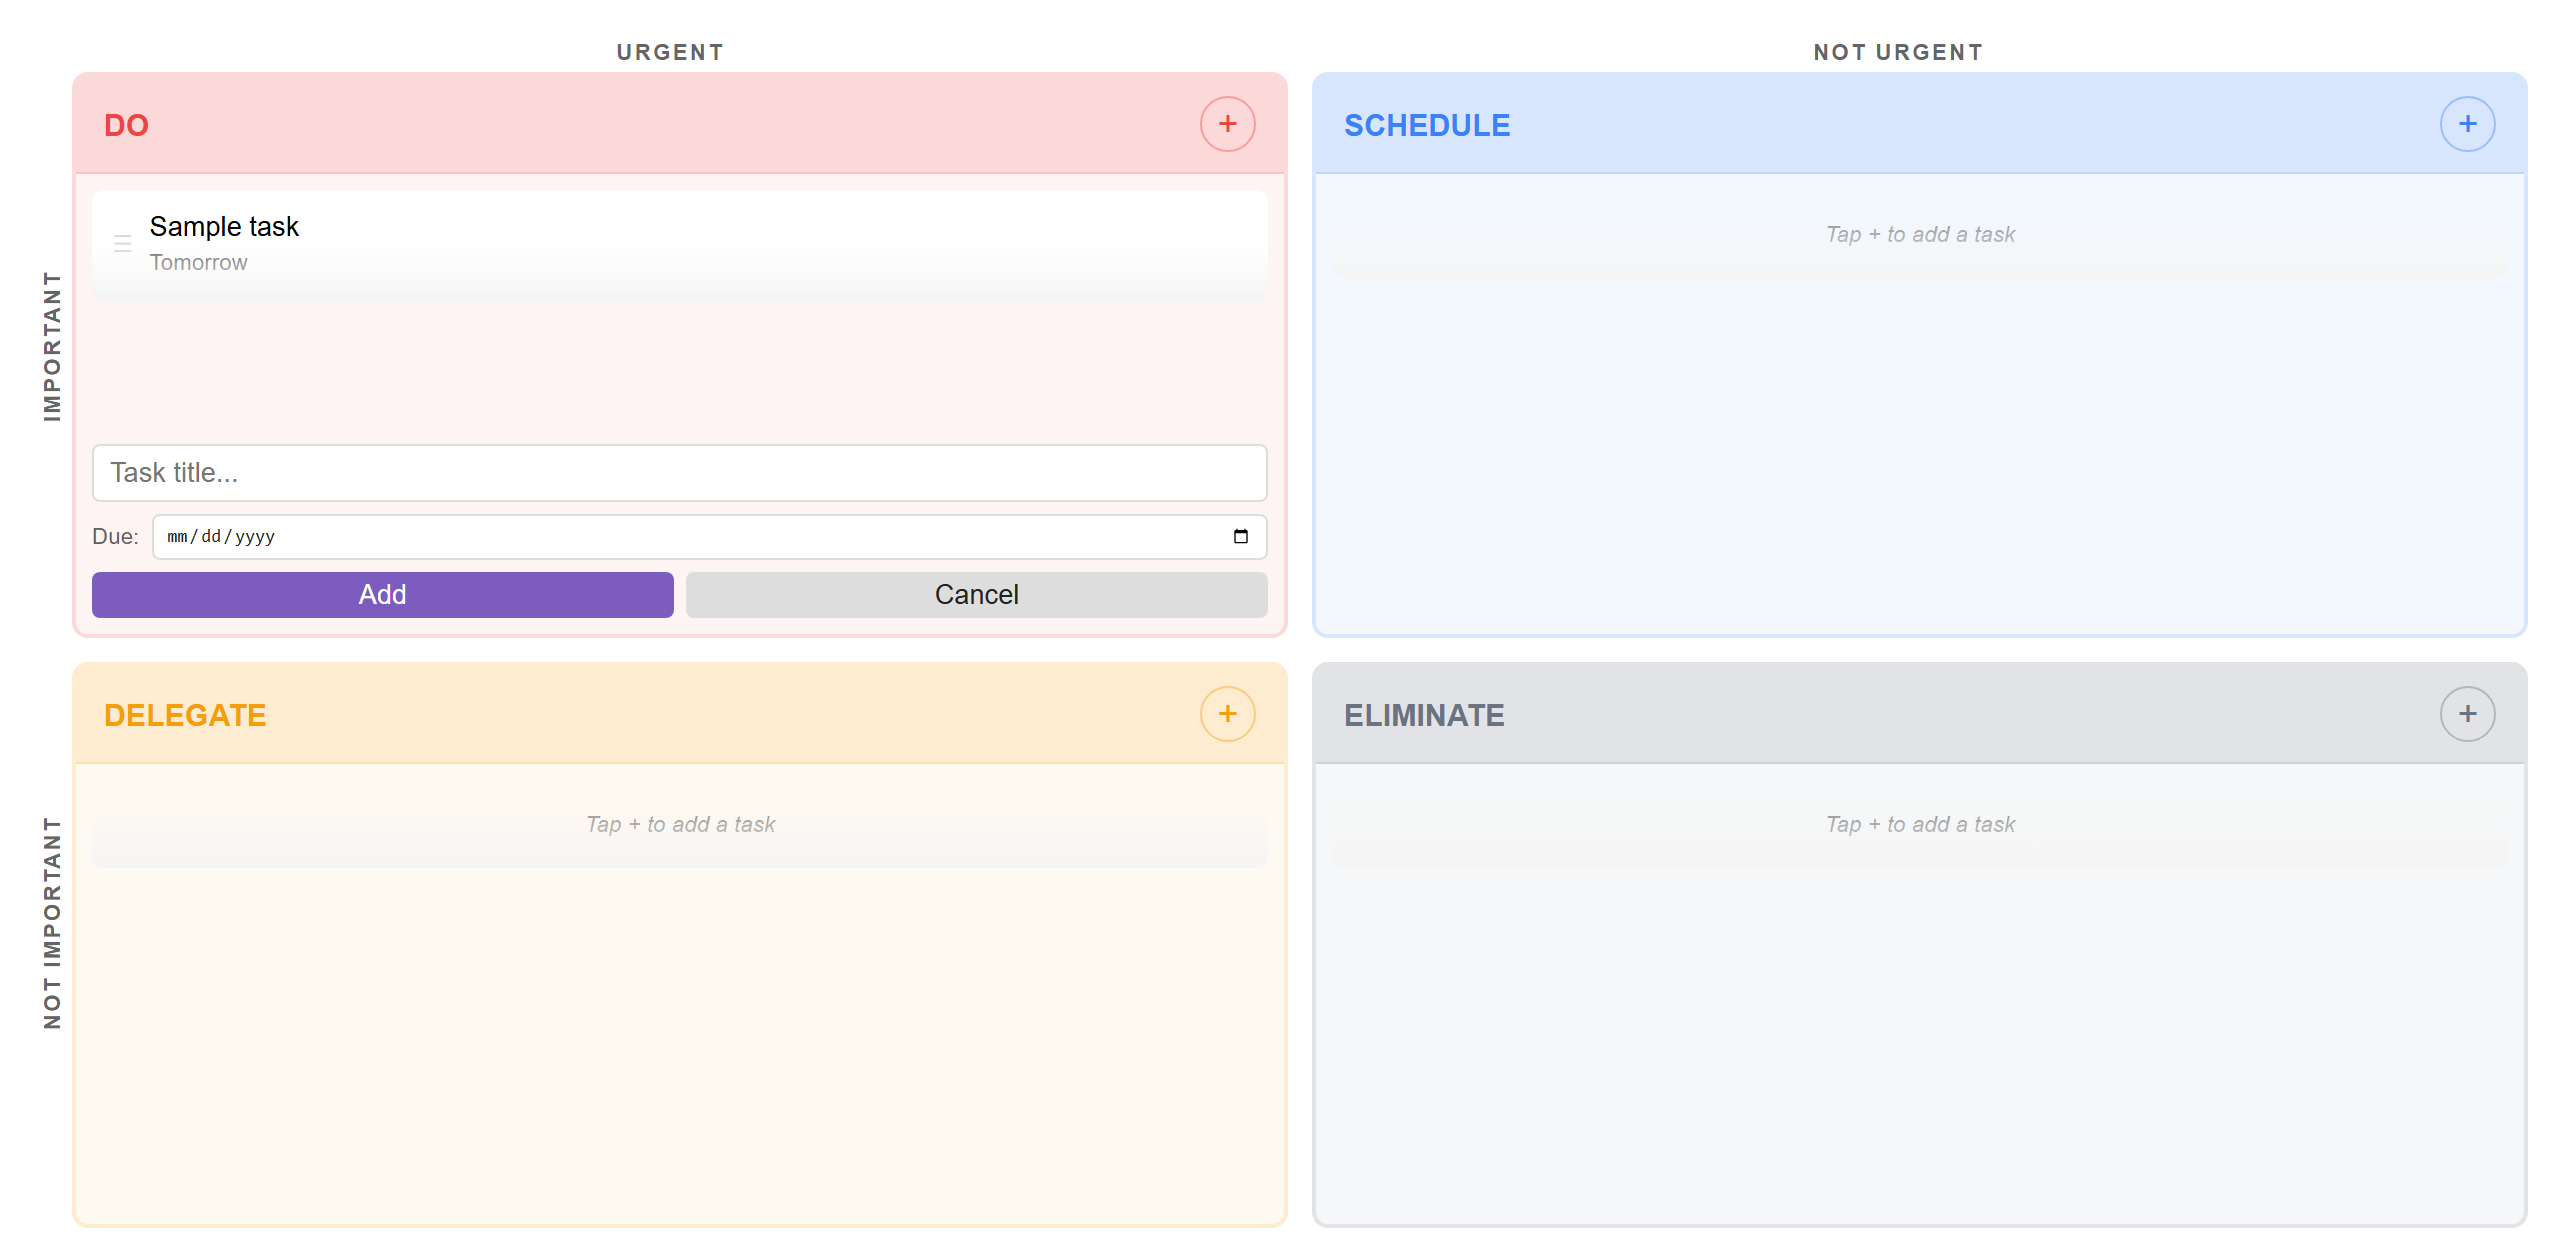
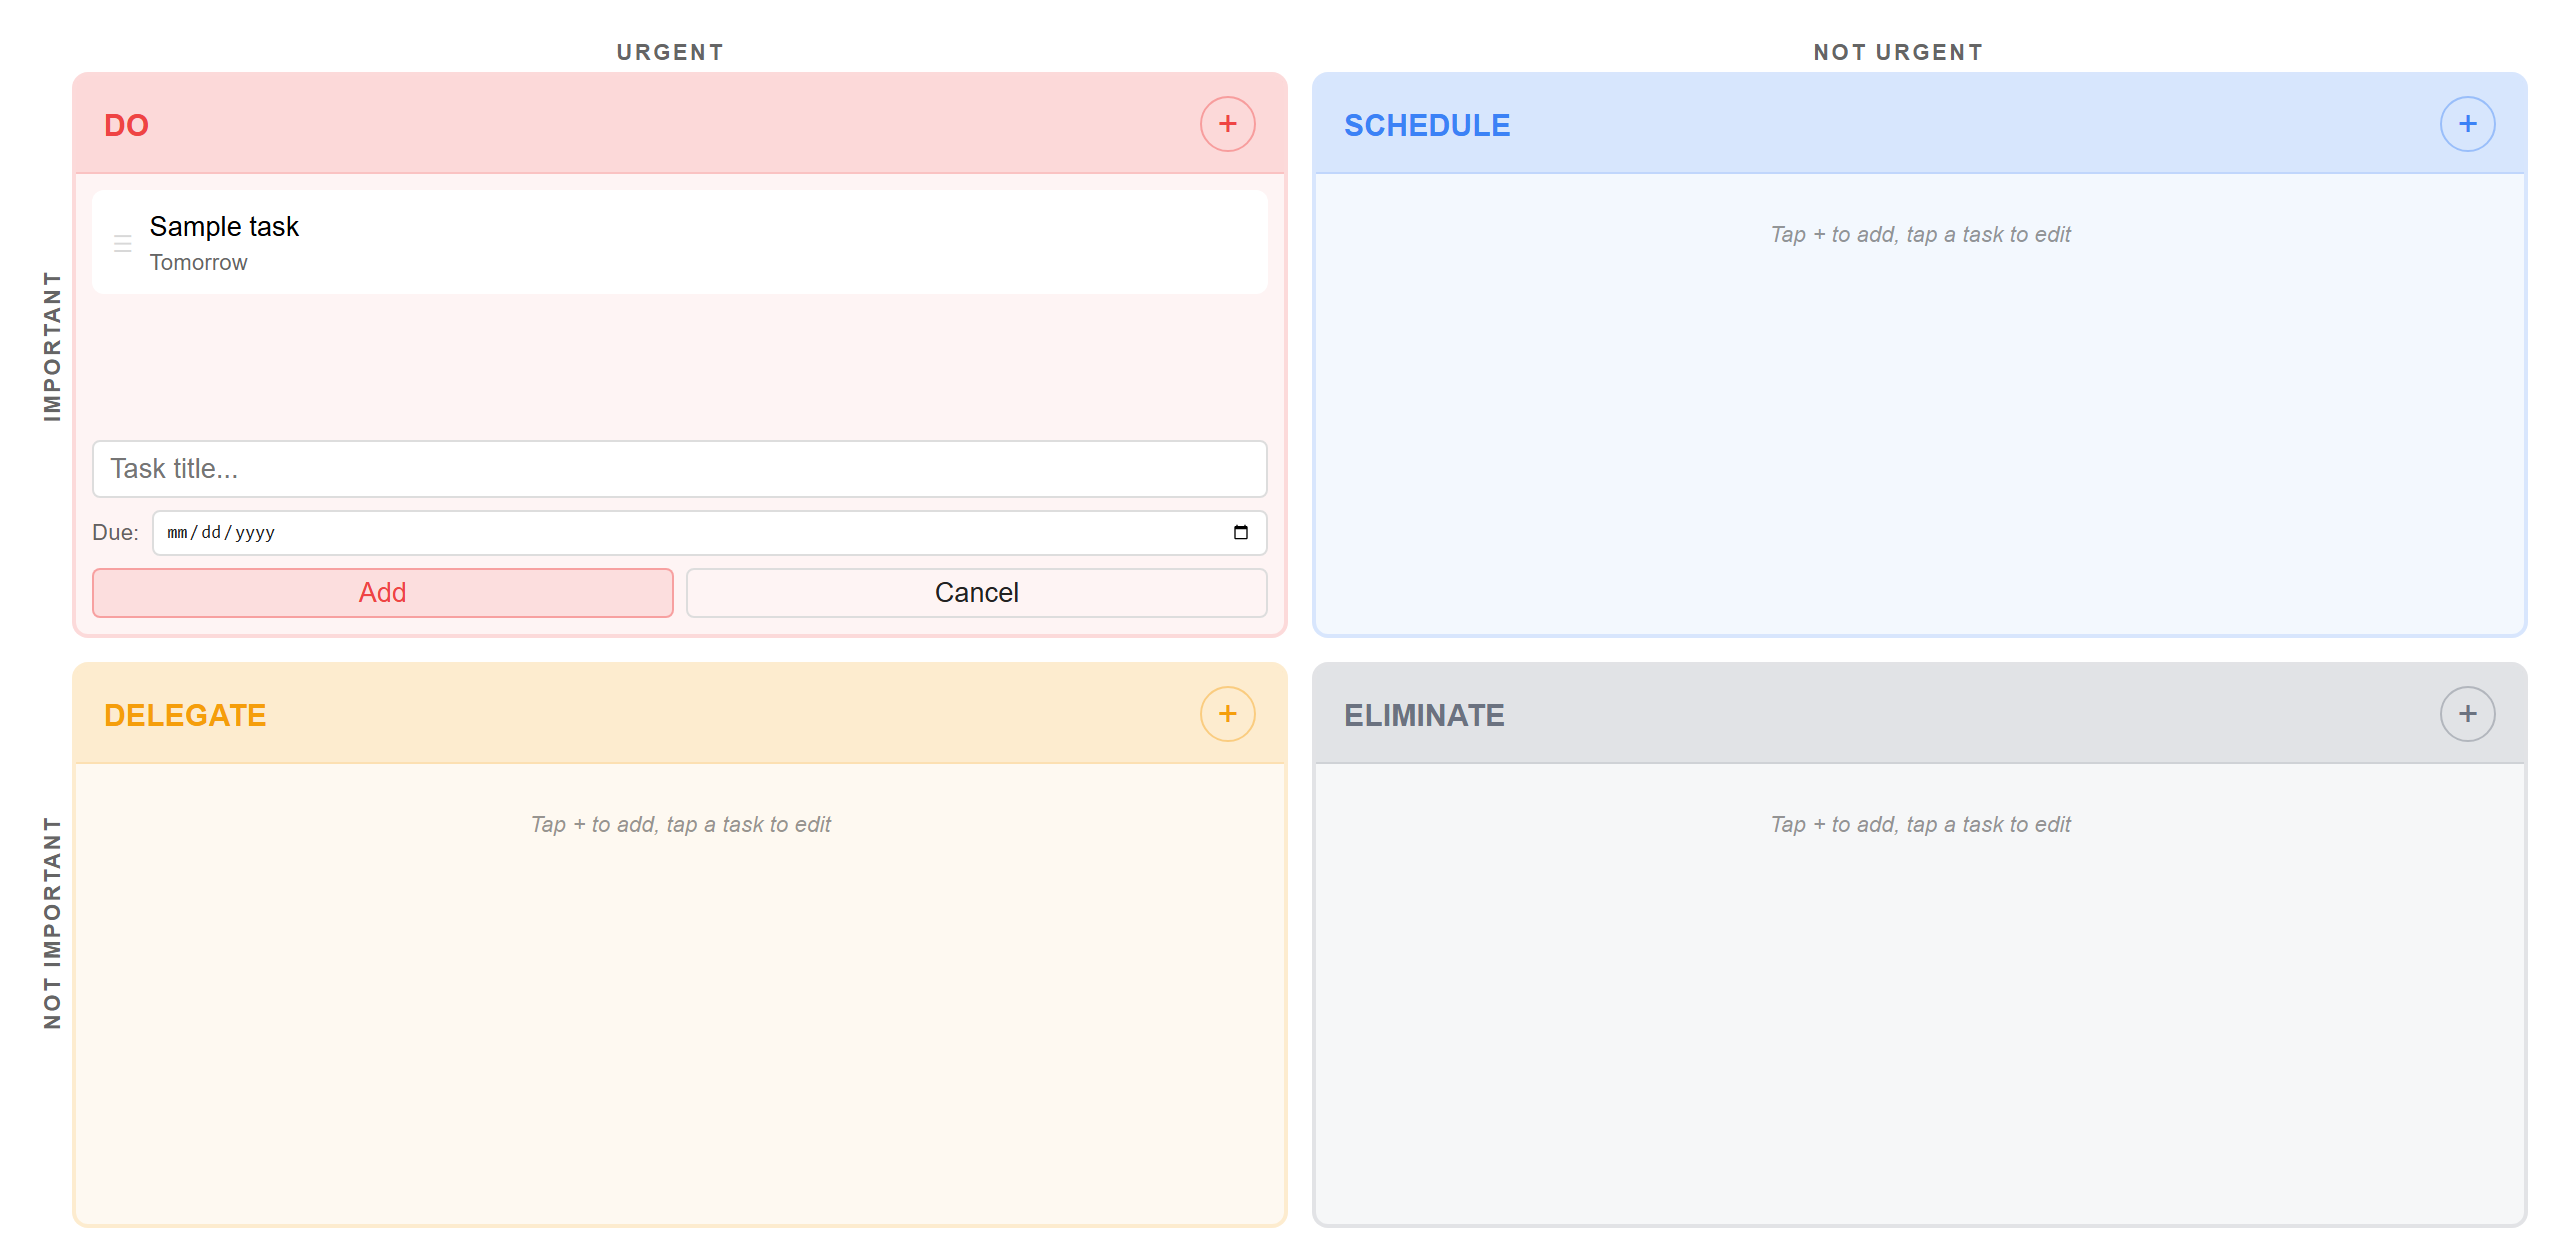
Conditional overflow fade, button hierarchy, edit hints, drag onboarding, task highlight
- Overflow fade only shows when task list actually overflows (toggleClass via rAF)
- Inverted Add/Cancel button weight: Add is solid with quadrant tint, Cancel is ghost
- Empty state text: "Tap + to add, tap a task to edit" for edit discoverability
- One-time mobile drag onboarding Notice on first open
- New task highlight animation (600ms background fade on creation)
- Added hasSeenDragHint to data model, Platform to obsidian mock

diff --git a/tests/fixtures/matrix.html b/tests/fixtures/matrix.html
@@ -58,7 +58,7 @@
 						<button class="em-add-btn" aria-label="Add task to Do">+</button>
 					</div>
 					<div class="em-task-list">
-						<div class="em-empty-state">Tap + to add a task</div>
+						<div class="em-empty-state">Tap + to add, tap a task to edit</div>
 					</div>
 					<div class="em-add-form em-hidden">
 						<input type="text" class="em-task-input" placeholder="Task title...">
@@ -82,7 +82,7 @@
 						<button class="em-add-btn" aria-label="Add task to Schedule">+</button>
 					</div>
 					<div class="em-task-list">
-						<div class="em-empty-state">Tap + to add a task</div>
+						<div class="em-empty-state">Tap + to add, tap a task to edit</div>
 					</div>
 					<div class="em-add-form em-hidden">
 						<input type="text" class="em-task-input" placeholder="Task title...">
@@ -106,7 +106,7 @@
 						<button class="em-add-btn" aria-label="Add task to Delegate">+</button>
 					</div>
 					<div class="em-task-list">
-						<div class="em-empty-state">Tap + to add a task</div>
+						<div class="em-empty-state">Tap + to add, tap a task to edit</div>
 					</div>
 					<div class="em-add-form em-hidden">
 						<input type="text" class="em-task-input" placeholder="Task title...">
@@ -130,7 +130,7 @@
 						<button class="em-add-btn" aria-label="Add task to Eliminate">+</button>
 					</div>
 					<div class="em-task-list">
-						<div class="em-empty-state">Tap + to add a task</div>
+						<div class="em-empty-state">Tap + to add, tap a task to edit</div>
 					</div>
 					<div class="em-add-form em-hidden">
 						<input type="text" class="em-task-input" placeholder="Task title...">
@@ -204,7 +204,7 @@
 						</div>
 						<button class="em-add-btn">+</button>
 					</div>
-					<div class="em-task-list"><div class="em-empty-state">Tap + to add a task</div></div>
+					<div class="em-task-list"><div class="em-empty-state">Tap + to add, tap a task to edit</div></div>
 					<div class="em-add-form em-hidden"></div>
 				</div>
 				<div class="em-quadrant em-quadrant-q3 em-quadrant-empty" data-quadrant="q3">
@@ -214,7 +214,7 @@
 						</div>
 						<button class="em-add-btn">+</button>
 					</div>
-					<div class="em-task-list"><div class="em-empty-state">Tap + to add a task</div></div>
+					<div class="em-task-list"><div class="em-empty-state">Tap + to add, tap a task to edit</div></div>
 					<div class="em-add-form em-hidden"></div>
 				</div>
 				<div class="em-quadrant em-quadrant-q4 em-quadrant-empty" data-quadrant="q4">
@@ -224,7 +224,7 @@
 						</div>
 						<button class="em-add-btn">+</button>
 					</div>
-					<div class="em-task-list"><div class="em-empty-state">Tap + to add a task</div></div>
+					<div class="em-task-list"><div class="em-empty-state">Tap + to add, tap a task to edit</div></div>
 					<div class="em-add-form em-hidden"></div>
 				</div>
 
@@ -308,7 +308,7 @@
 						</div>
 						<button class="em-add-btn">+</button>
 					</div>
-					<div class="em-task-list"><div class="em-empty-state">Tap + to add a task</div></div>
+					<div class="em-task-list"><div class="em-empty-state">Tap + to add, tap a task to edit</div></div>
 					<div class="em-add-form em-hidden"></div>
 				</div>
 				<div class="em-quadrant em-quadrant-q3 em-quadrant-empty" data-quadrant="q3">
@@ -318,7 +318,7 @@
 						</div>
 						<button class="em-add-btn">+</button>
 					</div>
-					<div class="em-task-list"><div class="em-empty-state">Tap + to add a task</div></div>
+					<div class="em-task-list"><div class="em-empty-state">Tap + to add, tap a task to edit</div></div>
 					<div class="em-add-form em-hidden"></div>
 				</div>
 				<div class="em-quadrant em-quadrant-q4 em-quadrant-empty" data-quadrant="q4">
@@ -328,7 +328,7 @@
 						</div>
 						<button class="em-add-btn">+</button>
 					</div>
-					<div class="em-task-list"><div class="em-empty-state">Tap + to add a task</div></div>
+					<div class="em-task-list"><div class="em-empty-state">Tap + to add, tap a task to edit</div></div>
 					<div class="em-add-form em-hidden"></div>
 				</div>
 

diff --git a/styles.css b/styles.css
@@ -80,9 +80,13 @@
 .em-quadrant-q1 .em-quadrant-action {
 	color: #ef4444;
 }
-.em-quadrant-q1 .em-add-btn,
-.em-quadrant-q1 .em-form-submit {
+.em-quadrant-q1 .em-add-btn {
 	border: 1.5px solid rgba(239, 68, 68, 0.4);
+	color: #ef4444;
+}
+.em-quadrant-q1 .em-form-submit {
+	background: rgba(239, 68, 68, 0.12);
+	border-color: rgba(239, 68, 68, 0.4);
 	color: #ef4444;
 }
 
@@ -98,9 +102,13 @@
 .em-quadrant-q2 .em-quadrant-action {
 	color: #3b82f6;
 }
-.em-quadrant-q2 .em-add-btn,
-.em-quadrant-q2 .em-form-submit {
+.em-quadrant-q2 .em-add-btn {
 	border: 1.5px solid rgba(59, 130, 246, 0.4);
+	color: #3b82f6;
+}
+.em-quadrant-q2 .em-form-submit {
+	background: rgba(59, 130, 246, 0.12);
+	border-color: rgba(59, 130, 246, 0.4);
 	color: #3b82f6;
 }
 
@@ -116,9 +124,13 @@
 .em-quadrant-q3 .em-quadrant-action {
 	color: #f59e0b;
 }
-.em-quadrant-q3 .em-add-btn,
-.em-quadrant-q3 .em-form-submit {
+.em-quadrant-q3 .em-add-btn {
 	border: 1.5px solid rgba(245, 158, 11, 0.4);
+	color: #f59e0b;
+}
+.em-quadrant-q3 .em-form-submit {
+	background: rgba(245, 158, 11, 0.12);
+	border-color: rgba(245, 158, 11, 0.4);
 	color: #f59e0b;
 }
 
@@ -134,9 +146,13 @@
 .em-quadrant-q4 .em-quadrant-action {
 	color: #6b7280;
 }
-.em-quadrant-q4 .em-add-btn,
-.em-quadrant-q4 .em-form-submit {
+.em-quadrant-q4 .em-add-btn {
 	border: 1.5px solid rgba(107, 114, 128, 0.4);
+	color: #6b7280;
+}
+.em-quadrant-q4 .em-form-submit {
+	background: rgba(107, 114, 128, 0.12);
+	border-color: rgba(107, 114, 128, 0.4);
 	color: #6b7280;
 }
 
@@ -203,17 +219,21 @@
 	position: relative;
 }
 
-/* Overflow fade hint — "scroll for more" signal */
+/* Overflow fade hint — only shown when content overflows */
 .em-task-list::after {
 	content: "";
 	position: sticky;
 	bottom: 0;
-	display: block;
+	display: none;
 	height: 30px;
 	margin-top: -30px;
 	background: linear-gradient(transparent, rgba(239, 68, 68, 0.06));
 	pointer-events: none;
 	border-radius: 0 0 6px 6px;
+}
+
+.em-task-list.em-has-overflow::after {
+	display: block;
 }
 
 .em-quadrant-q1 .em-task-list::after { background: linear-gradient(transparent, rgba(239, 68, 68, 0.06)); }
@@ -379,14 +399,15 @@
 }
 
 .em-form-submit {
-	background: transparent;
+	background: var(--background-modifier-border);
 	color: var(--text-normal);
-	border: 1.5px solid var(--background-modifier-border);
+	border: 1.5px solid transparent;
 }
 
 .em-form-cancel {
-	background: var(--background-modifier-border);
+	background: transparent;
 	color: var(--text-normal);
+	border: 1.5px solid var(--background-modifier-border);
 }
 
 /* ===== EDIT FORM (INLINE) ===== */
@@ -545,6 +566,16 @@
 	.em-add-form {
 		padding: 6px;
 	}
+}
+
+/* ===== NEW TASK HIGHLIGHT ===== */
+@keyframes em-highlight-new {
+	from { background: rgba(0, 0, 0, 0.08); }
+	to { background: var(--background-primary); }
+}
+
+.em-task-new {
+	animation: em-highlight-new 600ms ease-out;
 }
 
 /* ===== UNDO TOAST ===== */

diff --git a/src/view.ts b/src/view.ts
@@ -1,4 +1,4 @@
-import { ItemView, WorkspaceLeaf, setIcon, Notice } from "obsidian";
+import { ItemView, WorkspaceLeaf, setIcon, Notice, Platform } from "obsidian";
 import {
 	VIEW_TYPE_EISENHOWER,
 	Quadrant,
@@ -35,6 +35,11 @@ export class EisenhowerMatrixView extends ItemView {
 
 	onOpen(): Promise<void> {
 		this.renderMatrix();
+		if (Platform.isMobile && !this.plugin.data.hasSeenDragHint) {
+			new Notice("Long-press a task to drag it between quadrants", 5000);
+			this.plugin.data.hasSeenDragHint = true;
+			void this.plugin.savePluginData();
+		}
 		return Promise.resolve();
 	}
 
@@ -71,6 +76,14 @@ export class EisenhowerMatrixView extends ItemView {
 			this.renderQuadrant(grid, QUADRANT_META[q]);
 		}
 
+		requestAnimationFrame(() => this.updateOverflowIndicators());
+	}
+
+	private updateOverflowIndicators(): void {
+		this.contentEl.querySelectorAll(".em-task-list").forEach((el) => {
+			const list = el as HTMLElement;
+			list.toggleClass("em-has-overflow", list.scrollHeight > list.clientHeight);
+		});
 	}
 
 	private renderQuadrant(gridEl: HTMLElement, meta: QuadrantMeta): void {
@@ -245,15 +258,19 @@ export class EisenhowerMatrixView extends ItemView {
 	}
 
 	private renderEmptyState(listEl: HTMLElement): void {
-		listEl.createDiv({ cls: "em-empty-state", text: "Tap + to add a task" });
+		listEl.createDiv({ cls: "em-empty-state", text: "Tap + to add, tap a task to edit" });
 	}
 
 	// ==================== TASK ACTIONS ====================
 
 	private async handleAddTask(quadrant: Quadrant, title: string, dueDate: string | null): Promise<void> {
-		this.plugin.addTask(title, quadrant, dueDate);
+		const newTask = this.plugin.addTask(title, quadrant, dueDate);
 		await this.plugin.savePluginData();
 		this.renderMatrix();
+		const newTaskEl = this.contentEl.querySelector(`[data-task-id="${newTask.id}"]`);
+		if (newTaskEl) {
+			(newTaskEl as HTMLElement).addClass("em-task-new");
+		}
 	}
 
 	private async handleDeleteTask(taskId: string): Promise<void> {

diff --git a/src/types.ts b/src/types.ts
@@ -56,6 +56,7 @@ export interface Task {
 export interface EisenhowerMatrixData {
 	tasks: Task[];
 	version: number;
+	hasSeenDragHint?: boolean;
 }
 
 export const DEFAULT_DATA: EisenhowerMatrixData = {

diff --git a/tests/__mocks__/obsidian.ts b/tests/__mocks__/obsidian.ts
@@ -56,3 +56,5 @@ export class Notice {
 }
 
 export function setIcon(_el: HTMLElement, _iconId: string): void {}
+
+export const Platform = { isMobile: false, isDesktop: true };

diff --git a/docs/design.md b/docs/design.md
@@ -59,11 +59,12 @@ Unidirectional data flow: User action → View calls Plugin CRUD → Plugin save
 - **Obsidian CSS variables** — theme-compatible colors that work in both light and dark mode
 - **Data schema versioning** — `version` field in persisted data for future migrations
 - **3-size type scale** — action (0.95em/700), body (0.85em/400), meta (0.7em/400/60% opacity). No other sizes.
-- **Subtle color system** — RGBA quadrant colors at 6% body / 15% header opacity. Color whispers, doesn't shout. All interactive elements (+ button, form submit) inherit quadrant color as ghost buttons. Overflow fade gradient matches per-quadrant tint.
-- **Progressive disclosure** — drag handles faintly visible (0.15 opacity), brighten on hover; mobile empty quadrants collapsed to header-only
+- **Subtle color system** — RGBA quadrant colors at 6% body / 15% header opacity. Color whispers, doesn't shout. Add buttons are ghost (outline), form submit buttons are solid with per-quadrant tinted background. Overflow fade gradient matches per-quadrant tint and only appears when content overflows.
+- **Progressive disclosure** — drag handles faintly visible (0.15 opacity), brighten on hover; mobile empty quadrants collapsed to header-only; one-time mobile drag onboarding notice; new task highlight animation (600ms fade)
 - **Dual-axis labels** — desktop uses CSS grid on `.em-matrix-wrapper` (`grid-template-columns: auto 1fr; grid-template-rows: auto 1fr`) to place urgency (horizontal) and importance (vertical, `writing-mode: vertical-lr; rotate(180deg)`) axis labels. Mobile reverts to flex column and hides the importance label.
 
 ## Recent Changes
+- Design evaluation polish (2026-02-17): conditional overflow fade (only when content overflows), inverted Add/Cancel button weight hierarchy, edit discoverability in empty state text, one-time mobile drag onboarding notice, new task highlight animation on creation
 - Design polish (2026-02-17): form submit button changed to ghost style with quadrant color (eliminated last purple accent), overflow fade gradient matched to per-quadrant backgrounds, dark mode Q3 tuned from 0.10 to 0.08, empty state text vertically centered
 - Follow-up design review (2026-02-16): verified all 5 priority fixes from initial review landed correctly (color opacity, subtitles, drag handles, card borders, title/footer), identified 7 remaining polish items (purple form submit button, always-visible date row, empty state centering, overflow gradient color mismatch, dark Q3 weight tuning, mobile button sizing, task card left-border color tags). Added screenshot capture script and 7 follow-up screenshots.
 - Design evaluation improvements: vertical importance axis label (CSS grid layout), task content hover hint, drag handle default opacity 0.15, dark mode Q3 orange fix, taller overflow fade, actionable empty state text, 3 new Playwright tests

diff --git a/CHANGELOG.md b/CHANGELOG.md
@@ -4,6 +4,27 @@ All notable changes to this project will be documented in this file.
 
 ---
 
+## [2026-02-17 15:30] - Design Evaluation Polish (5 Items)
+
+**Changed:**
+- Overflow fade on task lists is now conditional — only shown when content actually overflows via `em-has-overflow` class toggled in `updateOverflowIndicators()`
+- Inverted Add/Cancel button weight hierarchy — Add/Save is now solid (tinted background), Cancel is ghost (transparent with border)
+- Per-quadrant colored submit buttons with `rgba(color, 0.12)` background and `rgba(color, 0.4)` border
+- Empty state text updated from "Tap + to add a task" to "Tap + to add, tap a task to edit" for edit discoverability
+- One-time mobile drag onboarding notice on first open: "Long-press a task to drag it between quadrants"
+- New task highlight animation (`em-highlight-new`, 600ms ease-out background fade) confirms successful task creation
+- Added `hasSeenDragHint` to `EisenhowerMatrixData` interface for persisting one-time mobile onboarding
+- Added `Platform` export to obsidian mock for unit test compatibility
+
+**Files:**
+- `styles.css`
+- `src/view.ts`
+- `src/types.ts`
+- `tests/__mocks__/obsidian.ts`
+- `tests/fixtures/matrix.html`
+
+---
+
 ## [2026-02-17 12:00] - Design Polish: Form Buttons, Overflow Fade, Dark Mode Q3
 
 **Changed:**

diff --git a/WORKLOG.md b/WORKLOG.md
@@ -26,3 +26,4 @@ Track of development iterations and time estimates.
 | 2026-02-15 12:00 | ~15min | Design evaluation improvements — vertical importance axis label, task edit/drag hover hints, dark Q3 orange fix, taller overflow fade, actionable empty state text, 3 new Playwright tests |
 | 2026-02-16 14:00 | ~30min | Follow-up design review — captured 7 fresh screenshots via Playwright, evaluated all fixes from initial review, documented 7 remaining polish issues, updated DESIGN_REVIEW.md with before/after comparison |
 | 2026-02-17 12:00 | ~15min | Design polish — ghost submit button with quadrant color, per-quadrant overflow fade gradient, dark mode Q3 tuned to 0.08, vertically centered empty state text |
+| 2026-02-17 15:30 | ~15min | Design evaluation polish (5 items) — conditional overflow fade, inverted button weight, edit discoverability text, mobile drag onboarding notice, new task highlight animation |
